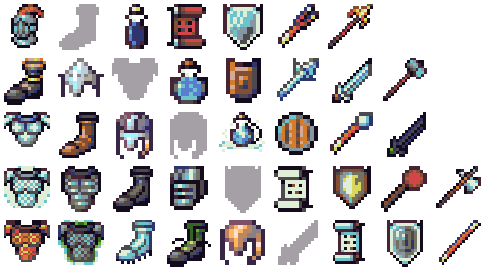
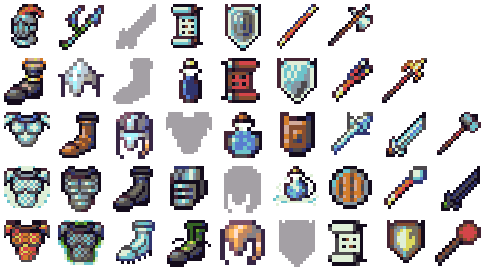
Ch06
1) For easier serialization and management, the quest entities are in their own container for the map class. Updated bookkeeping such as getters, rendering, selection, and collision detection to account for the new container.

2) Added new ConversationCommandEvent, ADD_ENTITY_TO_INVENTORY for picking up items for quests.

3) Added HERB001 as an InventoryItem, including updating the inventoryitem description, and item atlas.

4) Added method to convert selected entity into an inventoryitem in the player's inventory

diff --git a/core/src/com/packtpub/libgdx/bludbourne/MapManager.java b/core/src/com/packtpub/libgdx/bludbourne/MapManager.java
@@ -71,26 +71,42 @@ public class MapManager implements ProfileObserver {
             return;
         }
 
-        //Unregister observers
-        if( _currentMap != null ){
-            Array<Entity> entities = _currentMap.getMapEntities();
-            for(Entity entity: entities){
-                entity.unregisterObservers();
-            }
-        }
-
         _currentMap = map;
         _mapChanged = true;
         clearCurrentSelectedMapEntity();
         Gdx.app.debug(TAG, "Player Start: (" + _currentMap.getPlayerStart().x + "," + _currentMap.getPlayerStart().y + ")");
     }
 
-    public void setClosestStartPositionFromScaledUnits(Vector2 position) {
-        _currentMap.setClosestStartPositionFromScaledUnits(position);
+    public void unregisterCurrentMapEntityObservers(){
+        if( _currentMap != null ){
+            Array<Entity> entities = _currentMap.getMapEntities();
+            for(Entity entity: entities){
+                entity.unregisterObservers();
+            }
+
+            Array<Entity> questEntities = _currentMap.getMapQuestEntities();
+            for(Entity questEntity: questEntities){
+                questEntity.unregisterObservers();
+            }
+        }
     }
 
-    public void addMapEntities(Array<Entity> entities){
-        _currentMap.getMapEntities().addAll(entities);
+    public void registerCurrentMapEntityObservers(ComponentObserver observer){
+        if( _currentMap != null ){
+            Array<Entity> entities = _currentMap.getMapEntities();
+            for(Entity entity: entities){
+                entity.registerObserver(observer);
+            }
+
+            Array<Entity> questEntities = _currentMap.getMapQuestEntities();
+            for(Entity questEntity: questEntities){
+                questEntity.registerObserver(observer);
+            }
+        }
+    }
+
+    public void setClosestStartPositionFromScaledUnits(Vector2 position) {
+        _currentMap.setClosestStartPositionFromScaledUnits(position);
     }
 
     public MapLayer getCollisionLayer(){
@@ -132,11 +148,28 @@ public class MapManager implements ProfileObserver {
         return _currentMap.getMapEntities();
     }
 
+    public final Array<Entity> getCurrentMapQuestEntities(){
+        return _currentMap.getMapQuestEntities();
+    }
+
+    public void addMapQuestEntities(Array<Entity> entities){
+        _currentMap.getMapQuestEntities().addAll(entities);
+    }
+
+    public void removeMapQuestEntity(Entity entity){
+        entity.unregisterObservers();
+        _currentMap.getMapQuestEntities().removeValue(entity, true);
+    }
+
+    public void clearAllMapQuestEntities(){
+        _currentMap.getMapQuestEntities().clear();
+    }
+
     public Entity getCurrentSelectedMapEntity(){
         return _currentSelectedEntity;
     }
 
-    public void setCurrentSelectedMapEntity(Entity currentSelectedEntity){
+    public void setCurrentSelectedMapEntity(Entity currentSelectedEntity) {
         this._currentSelectedEntity = currentSelectedEntity;
     }
 

diff --git a/core/src/com/packtpub/libgdx/bludbourne/UI/PlayerHUD.java b/core/src/com/packtpub/libgdx/bludbourne/UI/PlayerHUD.java
@@ -142,8 +142,12 @@ public class PlayerHUD implements Screen, ProfileObserver,ComponentObserver,Conv
         return _stage;
     }
 
-    public void mapChanged(){
-        _questUI.mapChanged(_mapMgr);
+    public void updateEntityObservers(){
+        _mapMgr.unregisterCurrentMapEntityObservers();
+
+        _questUI.updateQuests(_mapMgr);
+
+        _mapMgr.registerCurrentMapEntityObservers(this);
     }
 
     @Override
@@ -205,6 +209,7 @@ public class PlayerHUD implements Screen, ProfileObserver,ComponentObserver,Conv
                 break;
             case SHOW_CONVERSATION:
                 EntityConfig configShow = _json.fromJson(EntityConfig.class, value);
+                //System.out.println("Show conversation for: " + configShow.getEntityID() + " current conversation ID: " + _conversationUI.getCurrentEntityID());
                 if( configShow.getEntityID().equalsIgnoreCase(_conversationUI.getCurrentEntityID())) {
                     _conversationUI.setVisible(true);
                 }
@@ -258,6 +263,21 @@ public class PlayerHUD implements Screen, ProfileObserver,ComponentObserver,Conv
 
                 _conversationUI.setVisible(false);
                 _mapMgr.clearCurrentSelectedMapEntity();
+                updateEntityObservers();
+
+                break;
+            case ADD_ENTITY_TO_INVENTORY:
+                Entity entity = _mapMgr.getCurrentSelectedMapEntity();
+                if( entity == null ){
+                    break;
+                }
+
+                _inventoryUI.addEntityToInventory(entity);
+                _mapMgr.clearCurrentSelectedMapEntity();
+                entity.unregisterObservers();
+                _mapMgr.removeMapQuestEntity(entity);
+
+                _conversationUI.setVisible(false);
                 break;
             case NONE:
                 break;

diff --git a/core/src/com/packtpub/libgdx/bludbourne/UI/InventoryUI.java b/core/src/com/packtpub/libgdx/bludbourne/UI/InventoryUI.java
@@ -8,6 +8,7 @@ import com.badlogic.gdx.scenes.scene2d.ui.Cell;
 import com.badlogic.gdx.scenes.scene2d.Actor;
 import com.badlogic.gdx.scenes.scene2d.utils.DragAndDrop;
 import com.badlogic.gdx.utils.Array;
+import com.packtpub.libgdx.bludbourne.Entity;
 import com.packtpub.libgdx.bludbourne.InventoryItem;
 import com.packtpub.libgdx.bludbourne.InventoryItemFactory;
 import com.packtpub.libgdx.bludbourne.InventoryItem.ItemUseType;
@@ -241,6 +242,27 @@ public class InventoryUI extends Window {
             if( inventorySlot == null ) continue;
             inventorySlot.updateAllInventoryItemNames(name);
         }
+    }
+
+    public void addEntityToInventory(Entity entity){
+        Array<Cell> sourceCells = _inventorySlotTable.getCells();
+        int index = 0;
+
+            for (; index < sourceCells.size; index++) {
+                InventorySlot inventorySlot = ((InventorySlot) sourceCells.get(index).getActor());
+                if (inventorySlot == null) continue;
+                int numItems = inventorySlot.getNumItems();
+                if (numItems == 0) {
+                    InventoryItem inventoryItem = InventoryItemFactory.getInstance().getInventoryItem(ItemTypeID.valueOf(entity.getEntityConfig().getEntityID()));
+                    inventorySlot.add(inventoryItem);
+                    _dragAndDrop.addSource(new InventorySlotSource(inventorySlot, _dragAndDrop));
+                    break;
+                }
+            }
+            if( index == sourceCells.size ){
+                //No empty slot available
+                //TODO: ADD MESSAGE HERE THAT INVENTORY IS FULL
+            }
     }
 
     public Array<Actor> getInventoryActors(){

diff --git a/core/src/com/packtpub/libgdx/bludbourne/PhysicsComponent.java b/core/src/com/packtpub/libgdx/bludbourne/PhysicsComponent.java
@@ -22,9 +22,10 @@ public abstract class PhysicsComponent extends ComponentSubject implements Compo
     protected Json _json;
     protected Vector2 _velocity;
 
+    protected Array<Entity> _tempEntities;
+
     public Rectangle _boundingBox;
     protected BoundingBoxLocation _boundingBoxLocation;
-
     protected Ray _selectionRay;
     protected final float _selectRayMaximumDistance = 32.0f;
 
@@ -40,15 +41,18 @@ public abstract class PhysicsComponent extends ComponentSubject implements Compo
         this._velocity = new Vector2(2f,2f);
         this._boundingBox = new Rectangle();
         this._json = new Json();
+        this._tempEntities = new Array<Entity>();
         _boundingBoxLocation = BoundingBoxLocation.BOTTOM_LEFT;
         _selectionRay = new Ray(new Vector3(), new Vector3());
     }
 
     protected boolean isCollisionWithMapEntities(Entity entity, MapManager mapMgr){
-        Array<Entity> entities = mapMgr.getCurrentMapEntities();
+        _tempEntities.clear();
+        _tempEntities.addAll(mapMgr.getCurrentMapEntities());
+        _tempEntities.addAll(mapMgr.getCurrentMapQuestEntities());
         boolean isCollisionWithMapEntities = false;
 
-        for(Entity mapEntity: entities){
+        for(Entity mapEntity: _tempEntities){
             //Check for testing against self
             if( mapEntity.equals(entity) ){
                 continue;
@@ -62,6 +66,7 @@ public abstract class PhysicsComponent extends ComponentSubject implements Compo
                 break;
             }
         }
+        _tempEntities.clear();
         return isCollisionWithMapEntities;
     }
 

diff --git a/core/src/com/packtpub/libgdx/bludbourne/PlayerPhysicsComponent.java b/core/src/com/packtpub/libgdx/bludbourne/PlayerPhysicsComponent.java
@@ -78,7 +78,9 @@ public class PlayerPhysicsComponent extends PhysicsComponent {
     }
 
     private void selectMapEntityCandidate(MapManager mapMgr){
-        Array<Entity> currentEntities = mapMgr.getCurrentMapEntities();
+        _tempEntities.clear();
+        _tempEntities.addAll(mapMgr.getCurrentMapEntities());
+        _tempEntities.addAll(mapMgr.getCurrentMapQuestEntities());
 
         //Convert screen coordinates to world coordinates, then to unit scale coordinates
         mapMgr.getCamera().unproject(_mouseSelectCoordinates);
@@ -87,7 +89,7 @@ public class PlayerPhysicsComponent extends PhysicsComponent {
 
         //Gdx.app.debug(TAG, "Mouse Coordinates " + "(" + _mouseSelectCoordinates.x + "," + _mouseSelectCoordinates.y + ")");
 
-        for( Entity mapEntity : currentEntities ) {
+        for( Entity mapEntity : _tempEntities ) {
             //Don't break, reset all entities
             mapEntity.sendMessage(MESSAGE.ENTITY_DESELECTED);
             Rectangle mapEntityBoundingBox = mapEntity.getCurrentBoundingBox();
@@ -106,6 +108,7 @@ public class PlayerPhysicsComponent extends PhysicsComponent {
                 }
             }
         }
+        _tempEntities.clear();
     }
 
     private boolean updatePortalLayerActivation(MapManager mapMgr){

diff --git a/core/src/com/packtpub/libgdx/bludbourne/quest/QuestGraph.java b/core/src/com/packtpub/libgdx/bludbourne/quest/QuestGraph.java
@@ -5,6 +5,7 @@ import com.badlogic.gdx.math.Vector2;
 import com.badlogic.gdx.utils.Array;
 import com.badlogic.gdx.utils.Json;
 import com.packtpub.libgdx.bludbourne.Entity;
+import com.packtpub.libgdx.bludbourne.EntityConfig;
 import com.packtpub.libgdx.bludbourne.Map;
 import com.packtpub.libgdx.bludbourne.MapManager;
 
@@ -168,9 +169,11 @@ public class QuestGraph {
                     String taskConfig = questTask.getPropertyValue(QuestTask.QuestTaskPropertyType.TARGET_TYPE.toString());
                     if( taskConfig == null || taskConfig.isEmpty() ) break;
                     for( Vector2 position: positions ){
-                        entities.add(Map.initEntity(Entity.getEntityConfig(taskConfig), position));
+                        EntityConfig config = Entity.getEntityConfig(taskConfig);
+                        Entity entity = Map.initEntity(config, position);
+                        entities.add(entity);
                     }
-                    mapMgr.addMapEntities(entities);
+                    mapMgr.addMapQuestEntities(entities);
                     break;
                 case KILL:
                     break;

diff --git a/core/src/com/packtpub/libgdx/bludbourne/Map.java b/core/src/com/packtpub/libgdx/bludbourne/Map.java
@@ -46,10 +46,12 @@ public abstract class Map {
 
     protected MapFactory.MapType _currentMapType;
     protected Array<Entity> _mapEntities;
+    protected Array<Entity> _mapQuestEntities;
 
     Map( MapFactory.MapType mapType, String fullMapPath){
         _json = new Json();
         _mapEntities = new Array<Entity>(10);
+        _mapQuestEntities = new Array<Entity>();
         _currentMapType = mapType;
         _playerStart = new Vector2(0,0);
         _playerStartPositionRect = new Vector2(0,0);
@@ -131,8 +133,12 @@ public abstract class Map {
         return _mapEntities;
     }
 
-    public void addMapEntities(Array<Entity> entities){
-        _mapEntities.addAll(entities);
+    public Array<Entity> getMapQuestEntities(){
+        return _mapQuestEntities;
+    }
+
+    public void addMapQuestEntities(Array<Entity> entities){
+        _mapQuestEntities.addAll(entities);
     }
 
     public MapFactory.MapType getCurrentMapType(){

diff --git a/core/src/com/packtpub/libgdx/bludbourne/CastleDoomMap.java b/core/src/com/packtpub/libgdx/bludbourne/CastleDoomMap.java
@@ -11,8 +11,11 @@ public class CastleDoomMap extends Map{
 
     @Override
     public void updateMapEntities(MapManager mapMgr, Batch batch, float delta){
-        for( Entity entity : _mapEntities ){
-            entity.update(mapMgr, batch, delta);
+        for( int i=0; i < _mapEntities.size; i++){
+            _mapEntities.get(i).update(mapMgr, batch, delta);
+        }
+        for( int i=0; i < _mapQuestEntities.size; i++){
+            _mapQuestEntities.get(i).update(mapMgr, batch, delta);
         }
     }
 

diff --git a/core/src/com/packtpub/libgdx/bludbourne/TopWorldMap.java b/core/src/com/packtpub/libgdx/bludbourne/TopWorldMap.java
@@ -11,8 +11,11 @@ public class TopWorldMap extends Map{
 
     @Override
     public void updateMapEntities(MapManager mapMgr, Batch batch, float delta){
-        for( Entity entity : _mapEntities ){
-            entity.update(mapMgr, batch, delta);
+        for( int i=0; i < _mapEntities.size; i++){
+            _mapEntities.get(i).update(mapMgr, batch, delta);
+        }
+        for( int i=0; i < _mapQuestEntities.size; i++){
+            _mapQuestEntities.get(i).update(mapMgr, batch, delta);
         }
     }
 }

diff --git a/core/src/com/packtpub/libgdx/bludbourne/InventoryItem.java b/core/src/com/packtpub/libgdx/bludbourne/InventoryItem.java
@@ -34,7 +34,8 @@ public class InventoryItem extends Image {
         ARMOR_SHIELD(128),
         ARMOR_HELMET(256),
         ARMOR_CHEST(512),
-        ARMOR_FEET(1024);
+        ARMOR_FEET(1024),
+        QUEST_ITEM(2048);
 
         private int _itemUseType;
 
@@ -56,6 +57,7 @@ public class InventoryItem extends Image {
         WEAPON01,WEAPON02,WEAPON03,WEAPON04,WEAPON05,
         POTIONS01,POTIONS02,POTIONS03,
         SCROLL01,SCROLL02,SCROLL03,
+        HERB001,
         ;
     }
 

diff --git a/core/src/com/packtpub/libgdx/bludbourne/screens/MainGameScreen.java b/core/src/com/packtpub/libgdx/bludbourne/screens/MainGameScreen.java
@@ -114,13 +114,7 @@ public class MainGameScreen implements Screen {
 			_camera.position.set(_mapMgr.getPlayerStartUnitScaled().x, _mapMgr.getPlayerStartUnitScaled().y, 0f);
 			_camera.update();
 
-			//register observers
-			Array<Entity> entities = _mapMgr.getCurrentMapEntities();
-			for(Entity entity: entities){
-				entity.registerObserver(_playerHUD);
-			}
-
-			_playerHUD.mapChanged();
+			_playerHUD.updateEntityObservers();
 
 			_mapMgr.setMapChanged(false);
 		}

diff --git a/core/src/com/packtpub/libgdx/bludbourne/UI/QuestUI.java b/core/src/com/packtpub/libgdx/bludbourne/UI/QuestUI.java
@@ -117,8 +117,8 @@ public class QuestUI extends Window {
         _listTasks.setSelectedIndex(-1);
     }
 
-    public void mapChanged(MapManager mapMgr){
-        System.out.println("MAP CHANGED TO " + mapMgr.getCurrentMapType().toString());
+    public void updateQuests(MapManager mapMgr){
+        mapMgr.clearAllMapQuestEntities();
 
         //populate items if quests have them
         for( QuestGraph quest : _quests ){
